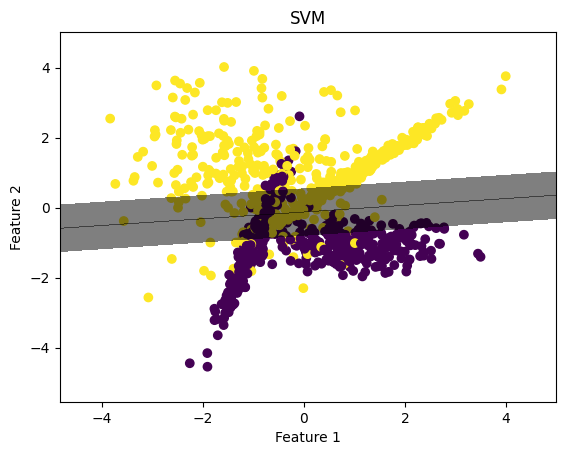
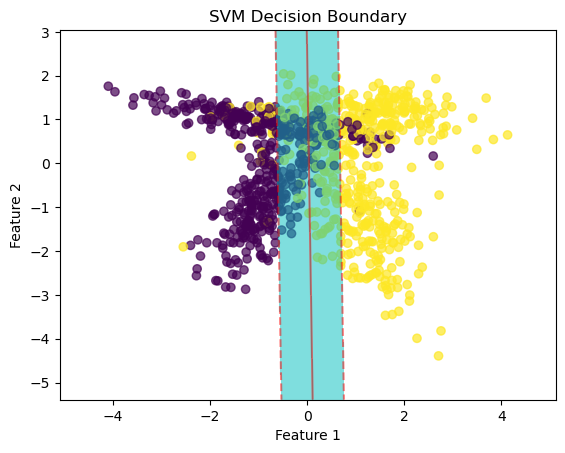
Update svm visualization

diff --git a/learn/templates/learn/matplotlib.html b/learn/templates/learn/matplotlib.html
@@ -147,44 +147,34 @@ plt.show()</code></pre>
     <div class="mt-4">
       <span class="dark">Support Vector Machine (SVM):</span> Visualize the decision boundary and support vectors.
       <div class="code-block">
-        <pre><code class="language-python">import numpy as np
+        <pre><code class="language-python"><pre><code class="language-python">import numpy as np
 import matplotlib.pyplot as plt
-from sklearn import datasets
-from sklearn.svm import SVC
 
-# Generate dataset
-X, y = datasets.make_blobs(n_samples=100, centers=2, random_state=6)
-y = 2 * y - 1  # Convert labels to -1, 1 for visualization
+# Select First 2 features as X and Y
+X_vis = X[:, :2] 
 
-# Train an SVM classifier
-svm_model = SVC(kernel='linear')
-svm_model.fit(X, y)
+# Find min and max of both columns
+x_min, x_max = X[:, 0].min() - 1, X[:, 0].max() + 1
+y_min, y_max = X[:, 1].min() - 1, X[:, 1].max() + 1
 
-# Get the coefficients and intercept
-w = svm_model.coef_[0]
-b = svm_model.intercept_[0]
+# Construct a meshgrid - a list of coordinates
+h = 0.01 # Step
+x_coordinates, y_coordinates = np.arange(x_min, x_max, h), np.arange(y_min, y_max, h)
+xx, yy = np.meshgrid(x_coordinates, y_coordinates)
 
 # Decision boundary
-x_values = np.linspace(X[:, 0].min() - 1, X[:, 0].max() + 1, 100)
-decision_boundary = -(w[0] / w[1]) * x_values - b / w[1]
+x_1d, y_1d = xx.ravel(), yy.ravel() # Convert 2D to 1D
+values_1d = np.c_[x_1d, y_1d] # Concatenate
+Z = model.decision_function(values_1d)
+Z = Z.reshape(xx.shape)
 
-# Margins
-margin = 1 / np.sqrt(np.sum(svm_model.coef_ ** 2))
-margin_upper = decision_boundary + margin
-margin_lower = decision_boundary - margin
-
-# Plot
-plt.scatter(X[:, 0], X[:, 1], c=y, cmap='coolwarm', s=30, edgecolors='k', label="Training Points")
-plt.plot(x_values, decision_boundary, 'k-', label='Decision Boundary')
-plt.plot(x_values, margin_upper, 'k--', label='Margin Upper')
-plt.plot(x_values, margin_lower, 'k--', label='Margin Lower')
-plt.scatter(svm_model.support_vectors_[:, 0], svm_model.support_vectors_[:, 1], s=100, facecolors='none', edgecolors='k', label='Support Vectors')
-
-plt.title("SVM Decision Boundary")
-plt.xlabel("Feature 1")
-plt.ylabel("Feature 2")
-plt.legend()
-plt.show()</code></pre>
+plt.scatter(X_vis[:, 0], X_vis[:, 1], c=y, cmap='viridis', alpha=0.7)
+plt.contourf(xx, yy, Z, levels=[-1, 0, 1], colors='c', alpha=0.5)
+plt.contour(xx, yy, Z, levels=[-1, 0, 1], colors='r', alpha=0.5, linestyles=['--', '-', '--'])
+plt.xlabel('Feature 1')
+plt.ylabel('Feature 2')
+plt.title('SVM Decision Boundary')
+plt.show()</code></pre></code></pre>
       </div>
       <div class="img-div">
         <img src="{% static 'learn/img/svm_decision_boundary.png' %}" alt="SVM Decision Boundary" style="width:500px;">

diff --git a/learn/templates/learn/svm.html b/learn/templates/learn/svm.html
@@ -107,18 +107,27 @@ weighted avg       0.88      0.88      0.88       200</code></pre>
       <pre><code class="language-python">import numpy as np
 import matplotlib.pyplot as plt
 
-# Create a mesh grid for visualization
-h = 0.02
+# Select First 2 features as X and Y
+X_vis = X[:, :2] 
+
+# Find min and max of both columns
 x_min, x_max = X[:, 0].min() - 1, X[:, 0].max() + 1
 y_min, y_max = X[:, 1].min() - 1, X[:, 1].max() + 1
-xx, yy = np.meshgrid(np.arange(x_min, x_max, h), np.arange(y_min, y_max, h))
 
-# Plot the decision boundary
-Z = model.decision_function(np.c_[xx.ravel(), yy.ravel()])
+# Construct a meshgrid - a list of coordinates
+h = 0.01 # Step
+x_coordinates, y_coordinates = np.arange(x_min, x_max, h), np.arange(y_min, y_max, h)
+xx, yy = np.meshgrid(x_coordinates, y_coordinates)
+
+# Decision boundary
+x_1d, y_1d = xx.ravel(), yy.ravel() # Convert 2D to 1D
+values_1d = np.c_[x_1d, y_1d] # Concatenate
+Z = model.decision_function(values_1d)
 Z = Z.reshape(xx.shape)
 
-plt.scatter(X[:, 0], X[:, 1], c=y, cmap='viridis', alpha=0.6)
-plt.contourf(xx, yy, Z, alpha=0.5, levels=[-1, 0, 1], colors='k')
+plt.scatter(X_vis[:, 0], X_vis[:, 1], c=y, cmap='viridis', alpha=0.7)
+plt.contourf(xx, yy, Z, levels=[-1, 0, 1], colors='c', alpha=0.5)
+plt.contour(xx, yy, Z, levels=[-1, 0, 1], colors='r', alpha=0.5, linestyles=['--', '-', '--'])
 plt.xlabel('Feature 1')
 plt.ylabel('Feature 2')
 plt.title('SVM Decision Boundary')
